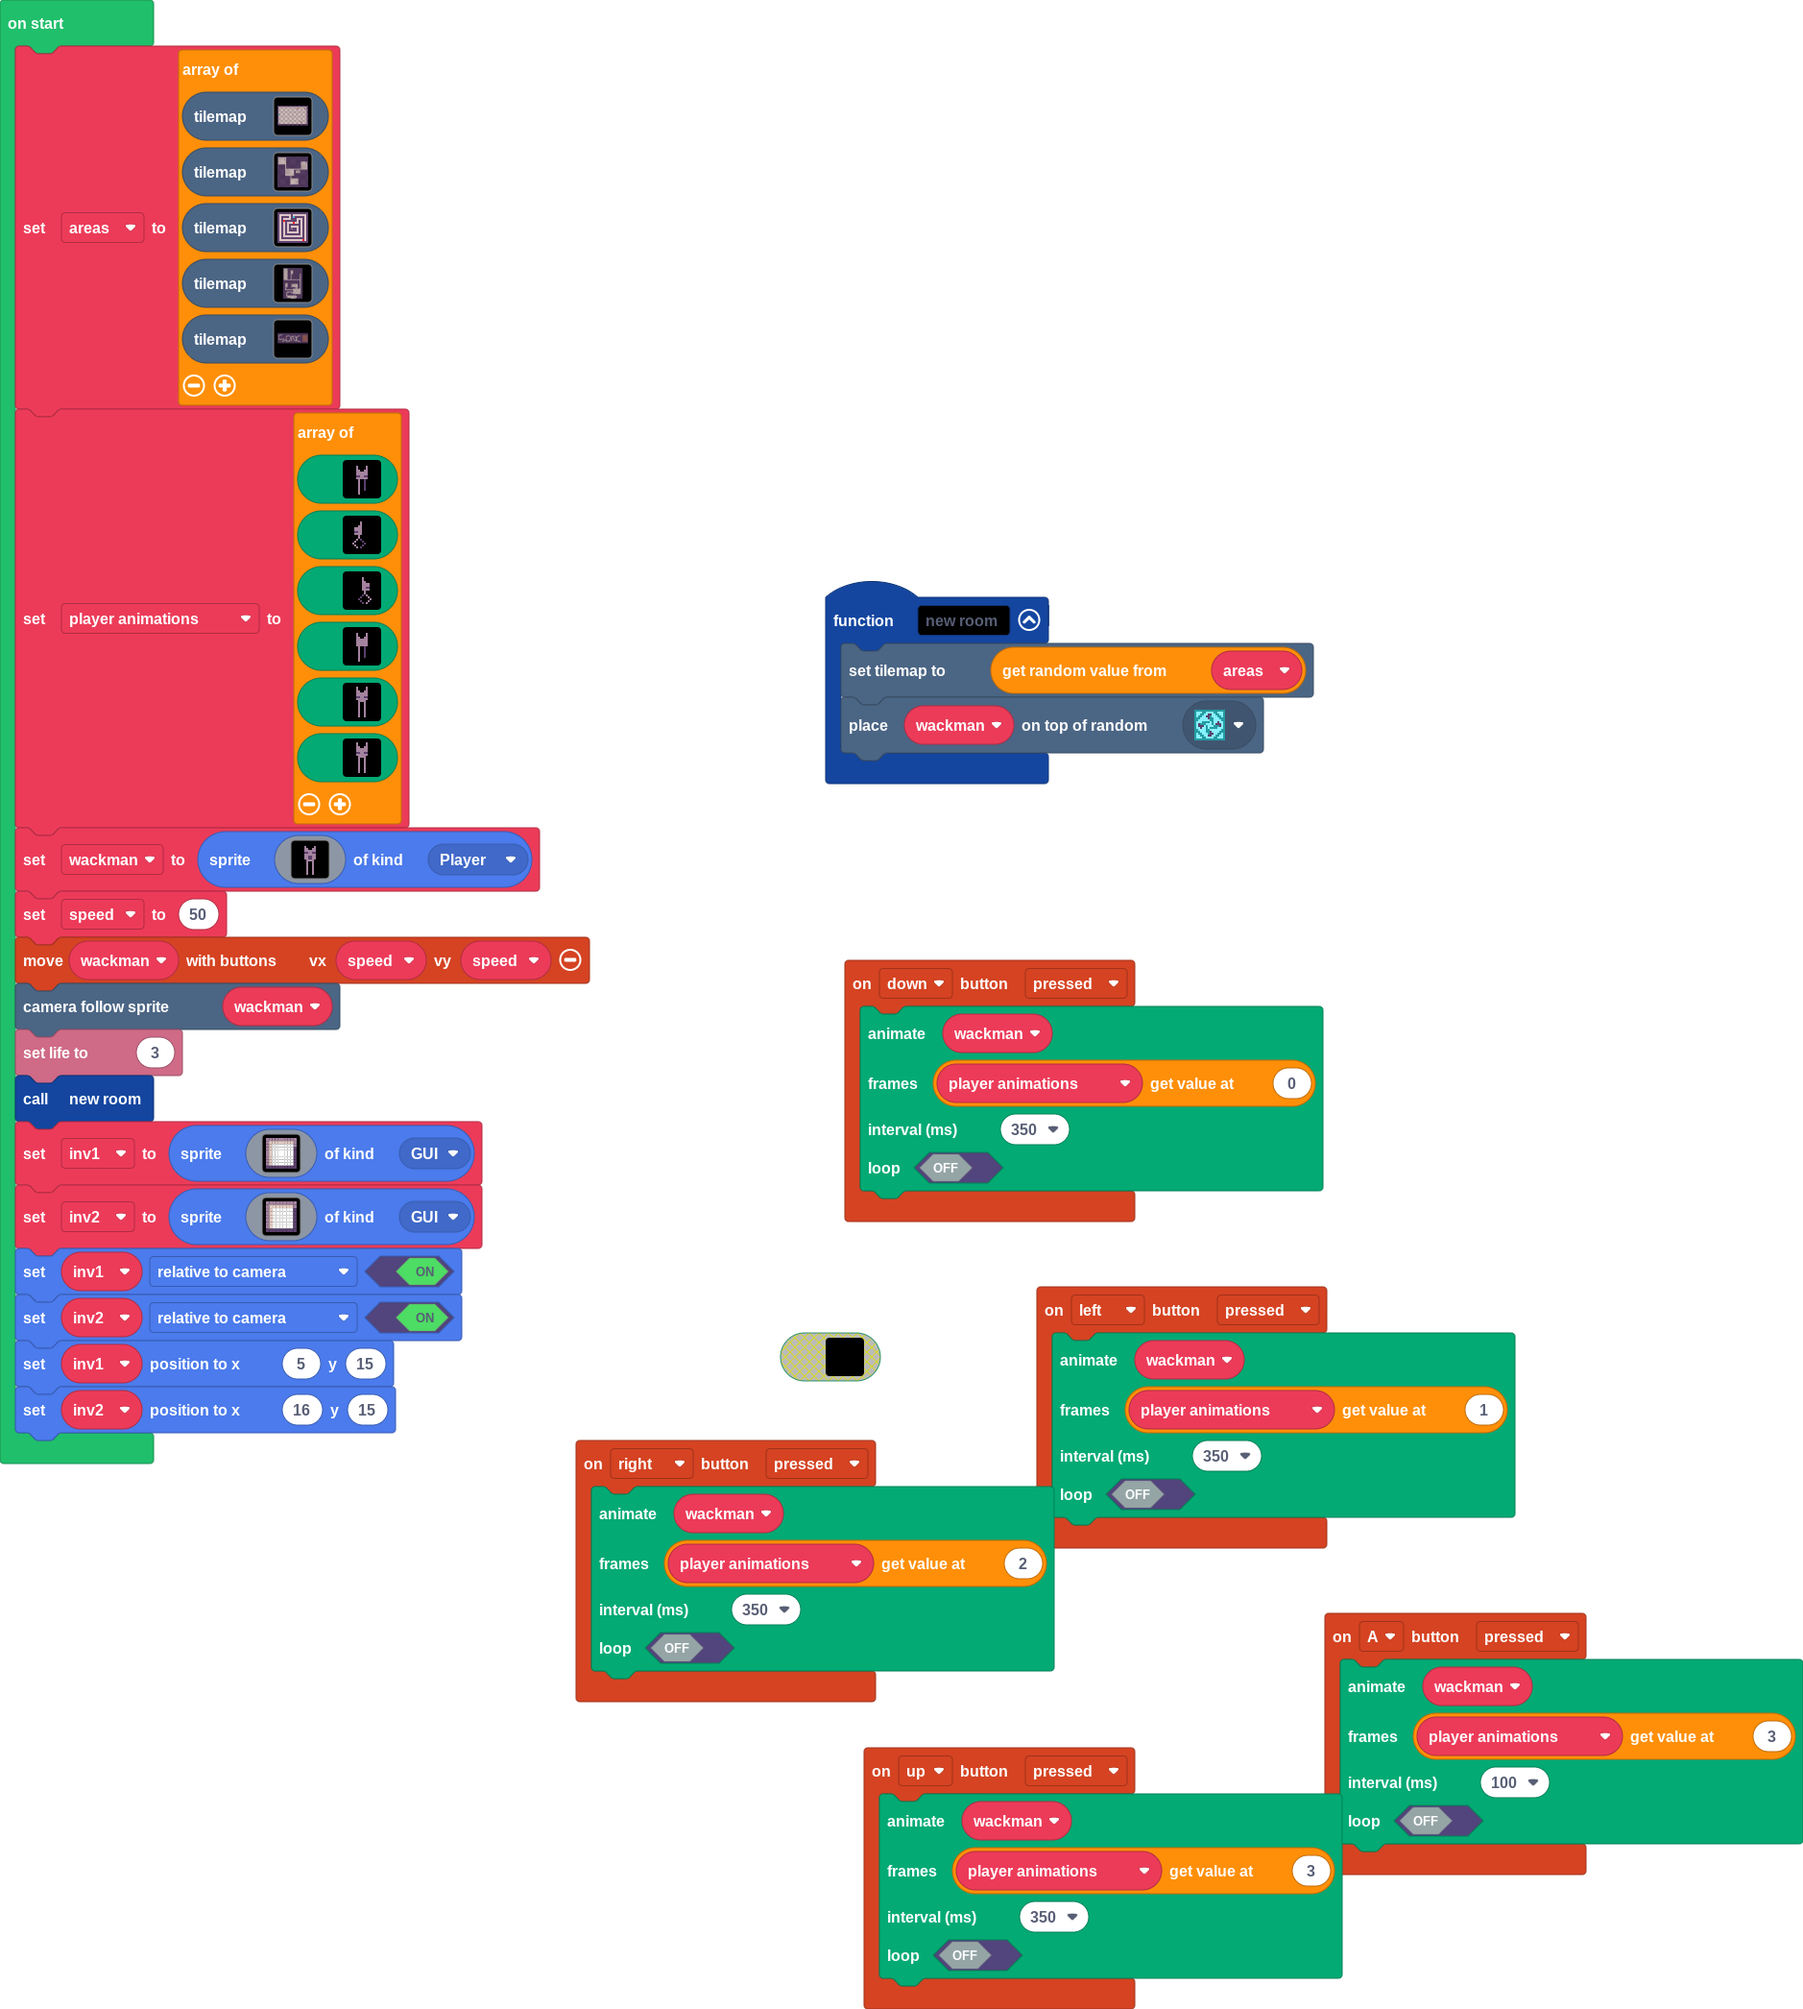
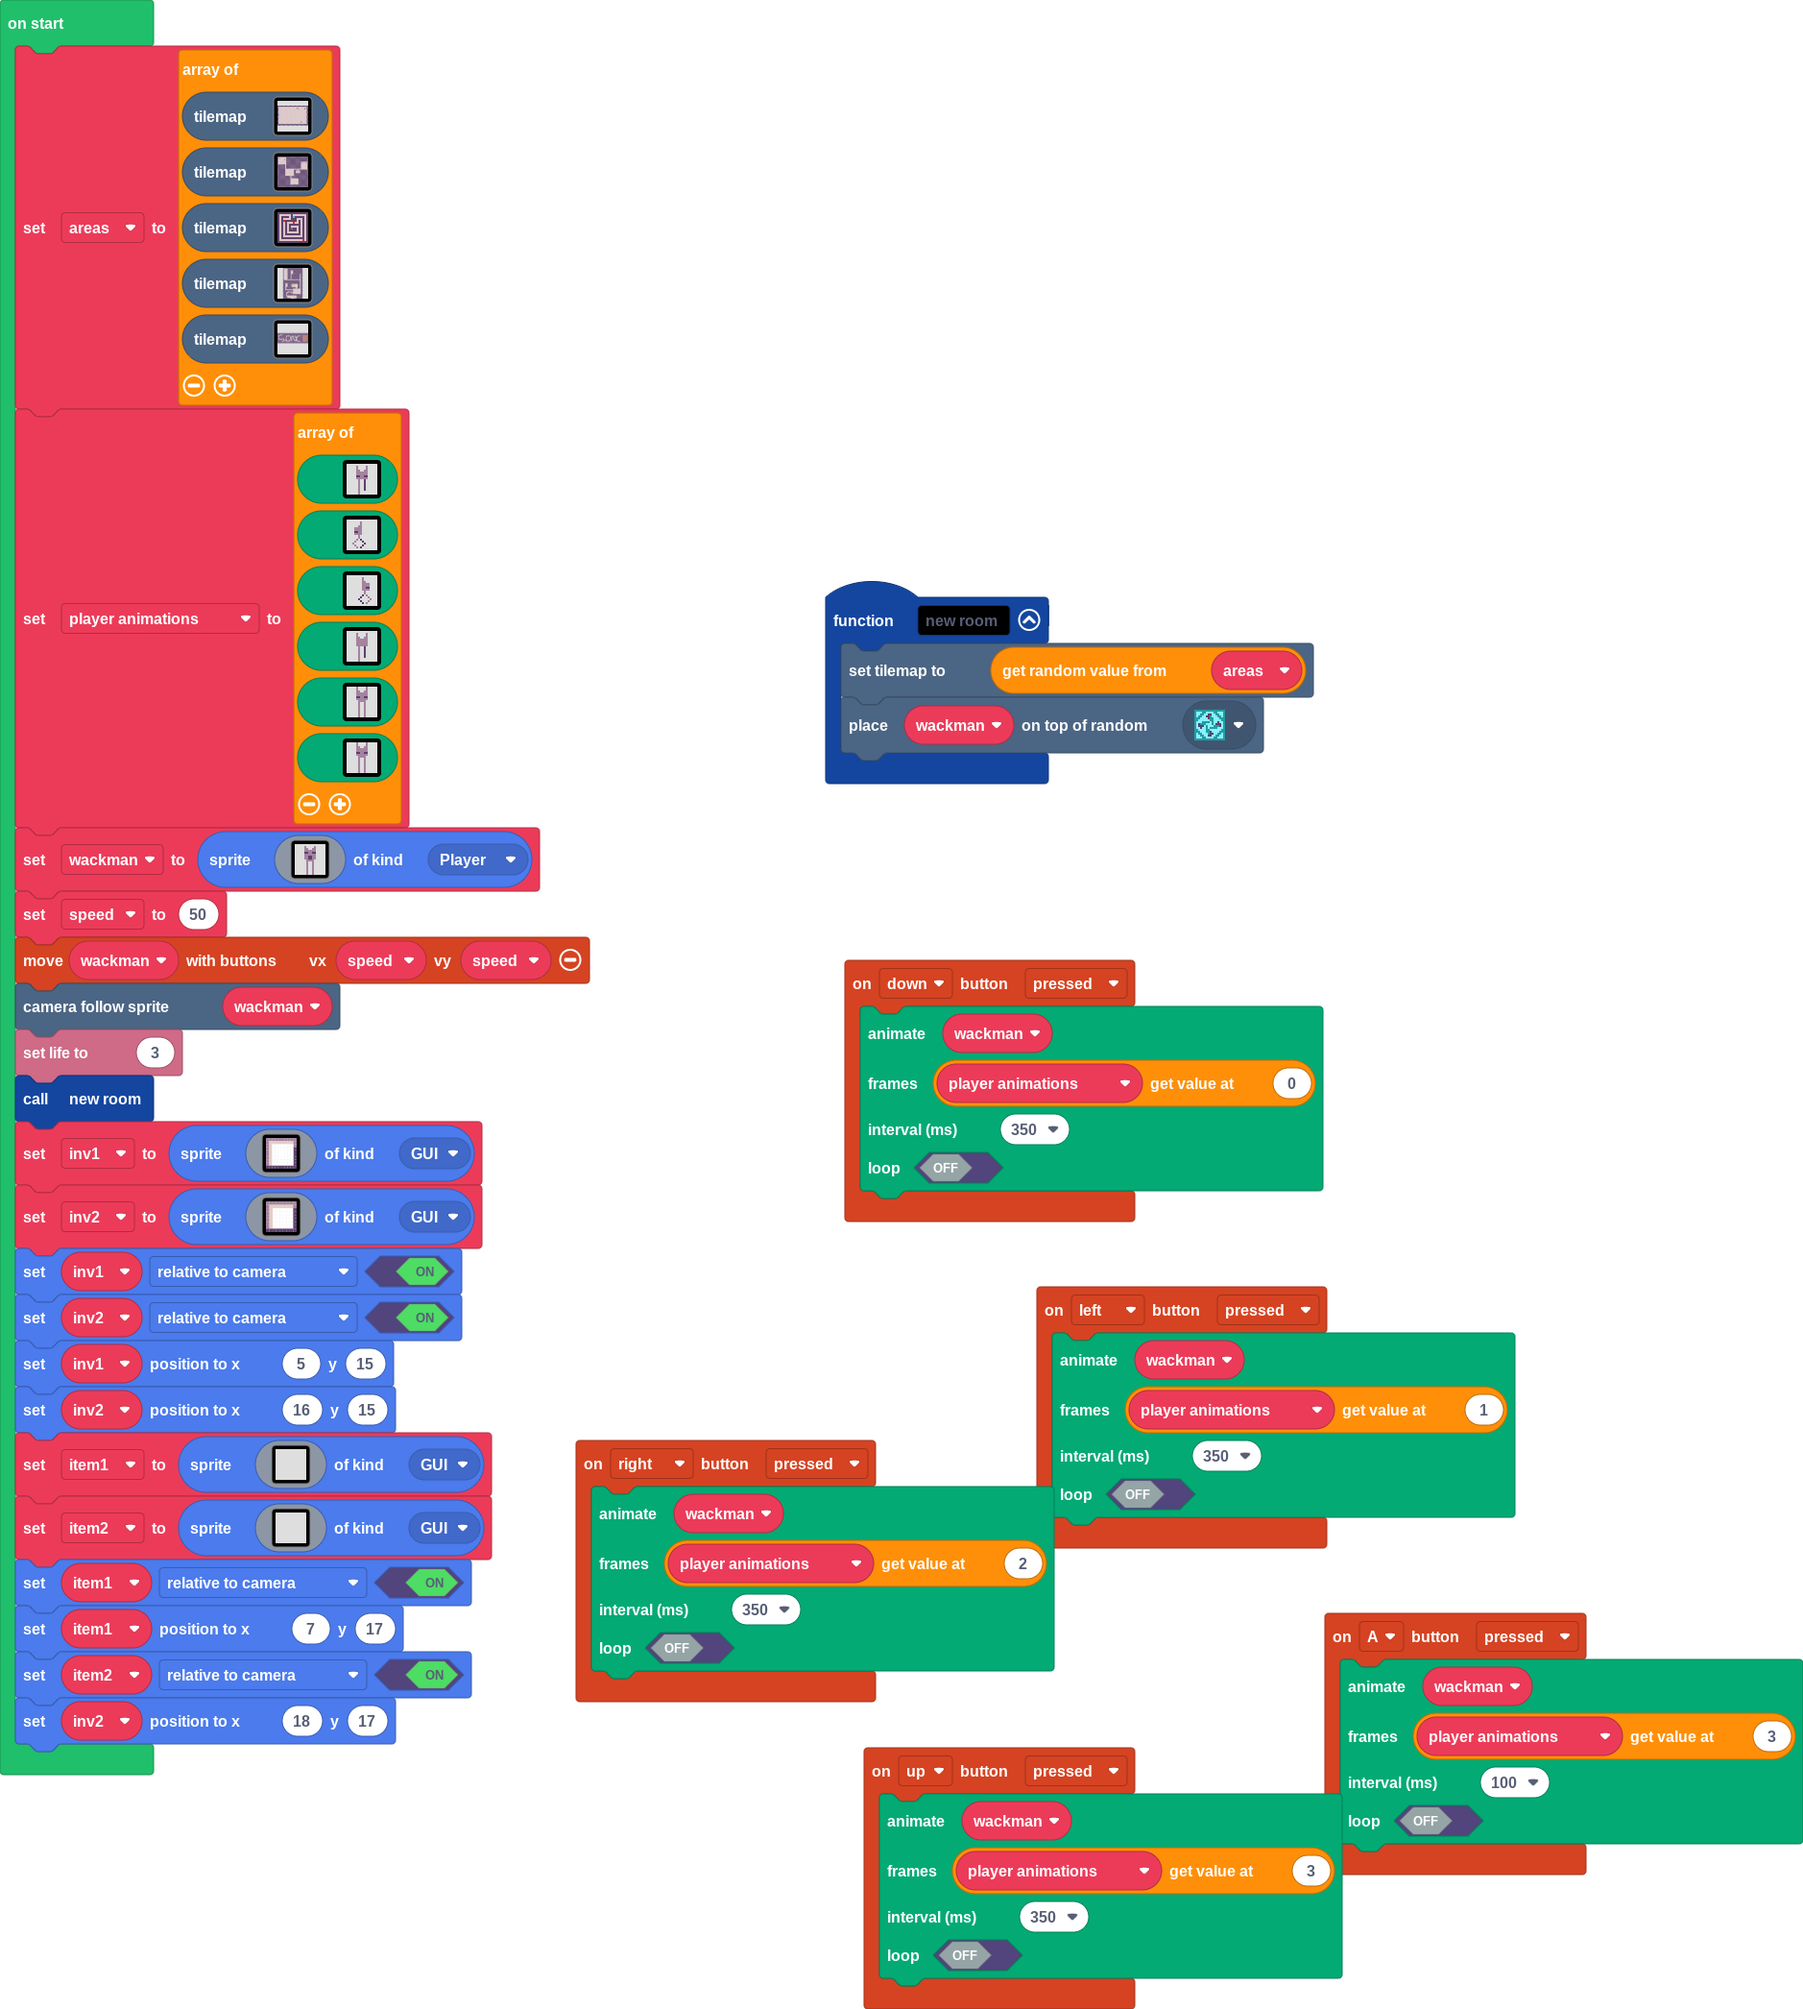
Update main.blocks, main.ts

diff --git a/main.ts b/main.ts
@@ -75,3 +75,43 @@ inv1.setFlag(SpriteFlag.RelativeToCamera, true)
 inv2.setFlag(SpriteFlag.RelativeToCamera, true)
 inv1.setPosition(5, 15)
 inv2.setPosition(16, 15)
+let item1 = sprites.create(img`
+    . . . . . . . . . . . . . . . . 
+    . . . . . . . . . . . . . . . . 
+    . . . . . . . . . . . . . . . . 
+    . . . . . . . . . . . . . . . . 
+    . . . . . . . . . . . . . . . . 
+    . . . . . . . . . . . . . . . . 
+    . . . . . . . . . . . . . . . . 
+    . . . . . . . . . . . . . . . . 
+    . . . . . . . . . . . . . . . . 
+    . . . . . . . . . . . . . . . . 
+    . . . . . . . . . . . . . . . . 
+    . . . . . . . . . . . . . . . . 
+    . . . . . . . . . . . . . . . . 
+    . . . . . . . . . . . . . . . . 
+    . . . . . . . . . . . . . . . . 
+    . . . . . . . . . . . . . . . . 
+    `, SpriteKind.GUI)
+let item2 = sprites.create(img`
+    . . . . . . . . . . . . . . . . 
+    . . . . . . . . . . . . . . . . 
+    . . . . . . . . . . . . . . . . 
+    . . . . . . . . . . . . . . . . 
+    . . . . . . . . . . . . . . . . 
+    . . . . . . . . . . . . . . . . 
+    . . . . . . . . . . . . . . . . 
+    . . . . . . . . . . . . . . . . 
+    . . . . . . . . . . . . . . . . 
+    . . . . . . . . . . . . . . . . 
+    . . . . . . . . . . . . . . . . 
+    . . . . . . . . . . . . . . . . 
+    . . . . . . . . . . . . . . . . 
+    . . . . . . . . . . . . . . . . 
+    . . . . . . . . . . . . . . . . 
+    . . . . . . . . . . . . . . . . 
+    `, SpriteKind.GUI)
+item1.setFlag(SpriteFlag.RelativeToCamera, true)
+item1.setPosition(7, 17)
+item2.setFlag(SpriteFlag.RelativeToCamera, true)
+inv2.setPosition(18, 17)
